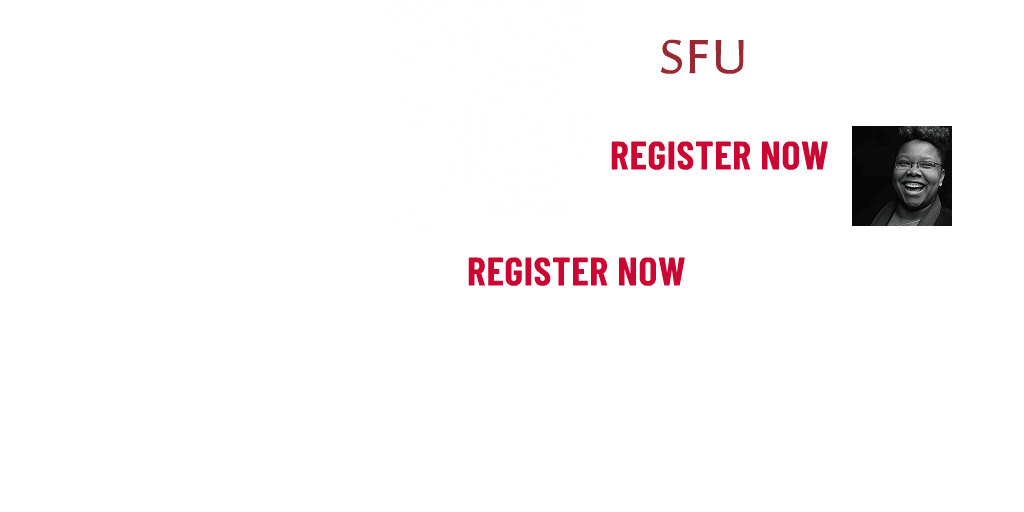
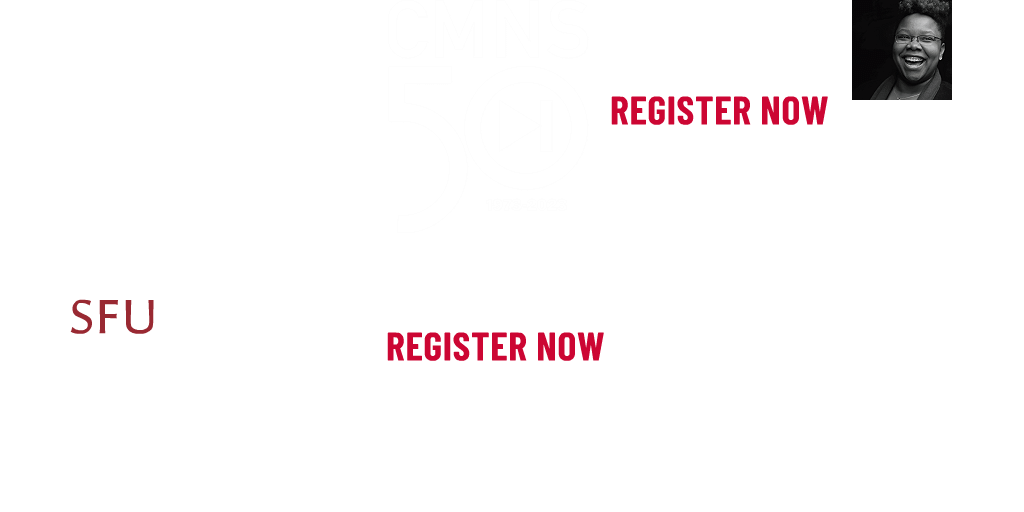
Add files via upload

diff --git a/cmns50th_300x250/index.js b/cmns50th_300x250/index.js
@@ -3,7 +3,7 @@
 var p; // shortcut to reference prototypes
 var lib={};var ss={};var img={};
 lib.ssMetadata = [
-		{name:"index_atlas_1", frames: [[0,235,445,80],[590,82,381,42],[590,0,364,80],[0,0,386,180],[590,126,260,56],[590,184,260,56],[447,242,260,56],[852,126,100,100],[388,0,200,233]]}
+		{name:"index_atlas_1", frames: [[388,235,445,80],[590,0,221,79],[0,260,364,80],[0,0,386,258],[590,81,260,56],[590,139,260,56],[366,317,260,56],[852,0,100,100],[388,0,200,233]]}
 ];
 
 
@@ -106,14 +106,14 @@ if (reversed == null) { reversed = false; }
 	this.instance.setTransform(0,22.7,0.5,0.5);
 
 	this.instance_1 = new lib.CachedBmp_6();
-	this.instance_1.setTransform(0,0,0.5,0.5);
+	this.instance_1.setTransform(0,-16,0.5,0.5);
 
 	this.timeline.addTween(cjs.Tween.get({}).to({state:[{t:this.instance_1},{t:this.instance}]}).wait(1));
 
 	this._renderFirstFrame();
 
 }).prototype = p = new cjs.MovieClip();
-p.nominalBounds = new cjs.Rectangle(0,0,222.5,62.7);
+p.nominalBounds = new cjs.Rectangle(0,-16,222.5,78.7);
 
 
 (lib.g_SpeakerPic = function(mode,startPosition,loop,reversed) {
@@ -186,14 +186,14 @@ if (reversed == null) { reversed = false; }
 
 	// Layer_1
 	this.instance = new lib.CMNS50();
-	this.instance.setTransform(0,0,0.5,0.5);
+	this.instance.setTransform(0,0,0.4,0.4);
 
 	this.timeline.addTween(cjs.Tween.get(this.instance).wait(1));
 
 	this._renderFirstFrame();
 
 }).prototype = p = new cjs.MovieClip();
-p.nominalBounds = new cjs.Rectangle(0,0,100,116.5);
+p.nominalBounds = new cjs.Rectangle(0,0,80,93.2);
 
 
 (lib.g_contenttxt_1 = function(mode,startPosition,loop,reversed) {
@@ -216,7 +216,7 @@ if (reversed == null) { reversed = false; }
 	this._renderFirstFrame();
 
 }).prototype = p = new cjs.MovieClip();
-p.nominalBounds = new cjs.Rectangle(0,0,193,90);
+p.nominalBounds = new cjs.Rectangle(0,0,193,129);
 
 
 (lib.btn_CTA = function(mode,startPosition,loop,reversed) {
@@ -356,7 +356,7 @@ if (reversed == null) { reversed = false; }
 	this.shape_19.graphics.f("#A6192E").s().p("A3bTiMAAAgnDMAu3AAAMAAAAnDg");
 	this.shape_19.setTransform(150,125);
 
-	this.timeline.addTween(cjs.Tween.get({}).to({state:[]}).to({state:[{t:this.shape}]},308).to({state:[{t:this.shape_1}]},1).to({state:[{t:this.shape_2}]},1).to({state:[{t:this.shape_3}]},1).to({state:[{t:this.shape_4}]},1).to({state:[{t:this.shape_5}]},1).to({state:[{t:this.shape_6}]},1).to({state:[{t:this.shape_7}]},1).to({state:[{t:this.shape_8}]},1).to({state:[{t:this.shape_9}]},1).to({state:[{t:this.shape_10}]},1).to({state:[{t:this.shape_11}]},1).to({state:[{t:this.shape_12}]},1).to({state:[{t:this.shape_13}]},1).to({state:[{t:this.shape_14}]},1).to({state:[{t:this.shape_15}]},1).to({state:[{t:this.shape_16}]},1).to({state:[{t:this.shape_17}]},1).to({state:[{t:this.shape_18}]},1).to({state:[{t:this.shape_19}]},1).wait(2));
+	this.timeline.addTween(cjs.Tween.get({}).to({state:[]}).to({state:[{t:this.shape}]},322).to({state:[{t:this.shape_1}]},1).to({state:[{t:this.shape_2}]},1).to({state:[{t:this.shape_3}]},1).to({state:[{t:this.shape_4}]},1).to({state:[{t:this.shape_5}]},1).to({state:[{t:this.shape_6}]},1).to({state:[{t:this.shape_7}]},1).to({state:[{t:this.shape_8}]},1).to({state:[{t:this.shape_9}]},1).to({state:[{t:this.shape_10}]},1).to({state:[{t:this.shape_11}]},1).to({state:[{t:this.shape_12}]},1).to({state:[{t:this.shape_13}]},1).to({state:[{t:this.shape_14}]},1).to({state:[{t:this.shape_15}]},1).to({state:[{t:this.shape_16}]},1).to({state:[{t:this.shape_17}]},1).to({state:[{t:this.shape_18}]},1).to({state:[{t:this.shape_19}]},1).wait(2));
 
 	// Logo_SOC
 	this.instance = new lib.g_SFU_SOC_Logo("synched",0);
@@ -366,89 +366,87 @@ if (reversed == null) { reversed = false; }
 	this.instance.filters = [instanceFilter_1];
 	this.instance.cache(-2,-2,186,44);
 
-	this.timeline.addTween(cjs.Tween.get(this.instance).wait(1).to({_off:false},0).to({y:18.1},23,cjs.Ease.get(1)).to({_off:true},304).wait(1));
-	this.timeline.addTween(cjs.Tween.get(instanceFilter_1).wait(1).to(new cjs.ColorFilter(0,0,0,1,166,25,47,0), 0).to(new cjs.ColorFilter(1,1,1,1,0,0,0,0), 23,cjs.Ease.get(1)).wait(1));
+	this.timeline.addTween(cjs.Tween.get(this.instance).wait(1).to({_off:false},0).to({y:18.1},24,cjs.Ease.get(1)).to({_off:true},317).wait(1));
+	this.timeline.addTween(cjs.Tween.get(instanceFilter_1).wait(1).to(new cjs.ColorFilter(0,0,0,1,166,25,47,0), 0).to(new cjs.ColorFilter(1,1,1,1,0,0,0,0), 24,cjs.Ease.get(1)).wait(1));
 
 	// Logo_CMNS50
 	this.instance_1 = new lib.g_Logo_CMNS50("synched",0);
-	this.instance_1.setTransform(262.5,88.6,1,1,0,0,0,82,30);
+	this.instance_1.setTransform(289,82.1,1,1,0,0,0,82,30);
 	this.instance_1._off = true;
 	var instance_1Filter_2 = new cjs.ColorFilter(1,1,1,1,0,0,0,0);
 	this.instance_1.filters = [instance_1Filter_2];
-	this.instance_1.cache(-2,-2,104,121);
+	this.instance_1.cache(-2,-2,84,97);
 
-	this.timeline.addTween(cjs.Tween.get(this.instance_1).wait(39).to({_off:false},0).to({startPosition:0},20,cjs.Ease.get(1)).wait(71).to({startPosition:0},0).to({startPosition:0},21,cjs.Ease.get(1)).to({_off:true},1).wait(177));
-	this.timeline.addTween(cjs.Tween.get(instance_1Filter_2).wait(39).to(new cjs.ColorFilter(0,0,0,1,166,25,47,0), 0).to(new cjs.ColorFilter(1,1,1,1,0,0,0,0), 20,cjs.Ease.get(1)).wait(71).to(new cjs.ColorFilter(0,0,0,1,166,25,47,0), 21,cjs.Ease.get(1)).wait(177));
+	this.timeline.addTween(cjs.Tween.get(this.instance_1).wait(38).to({_off:false},0).to({startPosition:0},18,cjs.Ease.get(1)).wait(89).to({startPosition:0},0).to({startPosition:0},21,cjs.Ease.get(1)).to({_off:true},1).wait(176));
+	this.timeline.addTween(cjs.Tween.get(instance_1Filter_2).wait(38).to(new cjs.ColorFilter(0,0,0,1,166,25,47,0), 0).to(new cjs.ColorFilter(1,1,1,1,0,0,0,0), 18,cjs.Ease.get(1)).wait(89).to(new cjs.ColorFilter(0,0,0,1,166,25,47,0), 21,cjs.Ease.get(1)).wait(176));
 
 	// Mask (mask)
 	var mask = new cjs.Shape();
 	mask._off = true;
-	var mask_graphics_16 = new cjs.Graphics().p("AgYTiMAAAgnDIAxAAMAAAAnDg");
-	var mask_graphics_17 = new cjs.Graphics().p("Aj7zhIH3CeMgFEAijIizCCg");
-	var mask_graphics_18 = new cjs.Graphics().p("AnWzhIOtE2Ip+eOIkvD/g");
-	var mask_graphics_19 = new cjs.Graphics().p("AqlzhIVMHHIupaFImjF3g");
-	var mask_graphics_20 = new cjs.Graphics().p("AtszhIbZJRIzFWJIoUHpg");
-	var mask_graphics_21 = new cjs.Graphics().p("AwpzhMAhTALVI3USZIp/JVg");
-	var mask_graphics_22 = new cjs.Graphics().p("AzczhMAm5ANSI7VO1IrkK8g");
-	var mask_graphics_23 = new cjs.Graphics().p("AzTzhMAmnAMbI5OR7ItZItg");
-	var mask_graphics_24 = new cjs.Graphics().p("AzKzhMAmVALlI3MU8IvJGig");
-	var mask_graphics_25 = new cjs.Graphics().p("AzBzhMAmDAKwI1PX3Iw0Ecg");
-	var mask_graphics_26 = new cjs.Graphics().p("Ay4zhMAlxAJ+IzVapIycCcg");
-	var mask_graphics_27 = new cjs.Graphics().p("AyxzhMAliAJOIxhdWI0BAfg");
-	var mask_graphics_28 = new cjs.Graphics().p("AymTiMAAAgnDMAlNAIOIuGe1g");
-	var mask_graphics_29 = new cjs.Graphics().p("AycTTMAAAgnEMAk5AHTMgK3AgPg");
-	var mask_graphics_30 = new cjs.Graphics().p("AySTEMAAAgnDMAklAGaMgHzAhlg");
-	var mask_graphics_31 = new cjs.Graphics().p("AyJS3MAAAgnDMAkTAFlMgE9Ai0g");
-	var mask_graphics_32 = new cjs.Graphics().p("AyBSrMAAAgnEMAkDAE0MgCUAj+g");
+	var mask_graphics_17 = new cjs.Graphics().p("AgYTiMAAAgnDIAxAAMAAAAnDg");
+	var mask_graphics_18 = new cjs.Graphics().p("Aj7zhIH3CeMgFEAijIizCCg");
+	var mask_graphics_19 = new cjs.Graphics().p("AnWzhIOtE2Ip+eOIkvD/g");
+	var mask_graphics_20 = new cjs.Graphics().p("AqlzhIVMHHIupaFImjF3g");
+	var mask_graphics_21 = new cjs.Graphics().p("AtszhIbZJRIzFWJIoUHpg");
+	var mask_graphics_22 = new cjs.Graphics().p("AwpzhMAhTALVI3USZIp/JVg");
+	var mask_graphics_23 = new cjs.Graphics().p("AzczhMAm5ANSI7VO1IrkK8g");
+	var mask_graphics_24 = new cjs.Graphics().p("AzTzhMAmnAMbI5OR7ItZItg");
+	var mask_graphics_25 = new cjs.Graphics().p("AzKzhMAmVALlI3MU8IvJGig");
+	var mask_graphics_26 = new cjs.Graphics().p("AzBzhMAmDAKwI1PX3Iw0Ecg");
+	var mask_graphics_27 = new cjs.Graphics().p("Ay4zhMAlxAJ+IzVapIycCcg");
+	var mask_graphics_28 = new cjs.Graphics().p("AyxzhMAliAJOIxhdWI0BAfg");
+	var mask_graphics_29 = new cjs.Graphics().p("AykTfMAAAgnEMAlJAIDItcfIg");
+	var mask_graphics_30 = new cjs.Graphics().p("AyYTNMAAAgnDMAkxAG7MgJnAgyg");
+	var mask_graphics_31 = new cjs.Graphics().p("AyNS8MAAAgnDMAkbAF6MgGFAiVg");
+	var mask_graphics_32 = new cjs.Graphics().p("AyDStMAAAgnDMAkGAE+MgC0Ajvg");
 	var mask_graphics_33 = new cjs.Graphics().p("Ax+SfMAAAgnDMAjzAEHMAAKAlCg");
-	var mask_graphics_34 = new cjs.Graphics().p("AzbSxMAAAgnDMAmvADBMAAIAlkg");
-	var mask_graphics_35 = new cjs.Graphics().p("A0pTAMAAAgnDMApOACGMAAFAmBg");
-	var mask_graphics_36 = new cjs.Graphics().p("A1pTMMAAAgnDMArQABWMAADAmZg");
-	var mask_graphics_37 = new cjs.Graphics().p("A2bTWMAAAgnDMAs1AAwMAACAmrg");
-	var mask_graphics_38 = new cjs.Graphics().p("A2/TdMAAAgnEMAt9AAWMAABAm5g");
-	var mask_graphics_39 = new cjs.Graphics().p("A3UThMAAAgnDMAupAAFMAAAAnAg");
-	var mask_graphics_40 = new cjs.Graphics().p("A3bTiMAAAgnDMAu3AAAMAAAAnDg");
-	var mask_graphics_130 = new cjs.Graphics().p("A3CNrIgywIIAyr/IW7gyIX8AyIAAJzIAATGI3aAyg");
-	var mask_graphics_131 = new cjs.Graphics().p("A1tNrIhTvhIB1sQIVRhIIW2AzIAFJzIgFTFI2TAyg");
-	var mask_graphics_132 = new cjs.Graphics().p("A0aNrIhzu6IC3sgITqhfIVvA0IALJyIgLTGI1MAxg");
-	var mask_graphics_133 = new cjs.Graphics().p("AzHNrIiTuUID5sxISDh0IUpA0IAQJzIgQTFI0GAxg");
-	var mask_graphics_134 = new cjs.Graphics().p("Ax1NrIiztuIE5tBIQfiKITkA0IAVJzIgVTGIzBAwg");
-	var mask_graphics_135 = new cjs.Graphics().p("AwkNrIjTtJIF6tQIO6igISgA0IAbJzIgbTHIx9Avg");
-	var mask_graphics_136 = new cjs.Graphics().p("AvUNrIjyslIG5tfINXi1IRdA1IAgJzIggTGIw6Avg");
-	var mask_graphics_137 = new cjs.Graphics().p("AuGNrIkPsAIH2tvIL2jKIQbA2IAlJyIglTGIv4Avg");
-	var mask_graphics_138 = new cjs.Graphics().p("As4NrIkurcII1t+IKVjfIPZA2IAqJzIgqTGIu2Aug");
-	var mask_graphics_139 = new cjs.Graphics().p("ArdNnIlvofII/szIKUoTIOYA3IAuJzIgkUiItqAxg");
-	var mask_graphics_140 = new cjs.Graphics().p("AqDNiImvliITa4tINYA3IA0JzIggV9IseA0g");
-	var mask_graphics_141 = new cjs.Graphics().p("AoqNeInviqIJTqjIKQxsIMYA3IA4JzIgZXXIrVA2g");
-	var mask_graphics_142 = new cjs.Graphics().p("AlbOXIomiSIGLrFIHKtrIK1jnIDyGyIAHSyIn4HBg");
-	var mask_graphics_143 = new cjs.Graphics().p("Ar2NtIDErlIEFpuIJToCIGqD1IAnOQIkdNGIp1AGg");
-	var mask_graphics_144 = new cjs.Graphics().p("ApuOXIABsGIBElzIHzsZIJfA5IBGJzIhGTGIoICFg");
-	var mask_graphics_145 = new cjs.Graphics().p("ApuOXIABsGIBElzIHzsZIJfA5IBGJzIhGTGIoICFg");
-	var mask_graphics_146 = new cjs.Graphics().p("ApuOXIABsGIBElzIHzsZIJfA5IBGJzIhGTGIoICFg");
-	var mask_graphics_147 = new cjs.Graphics().p("ApuOXIABsGIBElzIHzsZIJfA5IBGJzIhGTGIoICFg");
-	var mask_graphics_148 = new cjs.Graphics().p("ApuOXIABsGIBElzIHzsZIJfA5IBGJzIhGTGIoICFg");
-	var mask_graphics_149 = new cjs.Graphics().p("ApuOXIABsGIBElzIHzsZIJfA5IBGJzIhGTGIoICFg");
-	var mask_graphics_150 = new cjs.Graphics().p("ApuOXIABsGIBElzIHzsZIJfA5IBGJzIhGTGIoICFg");
-	var mask_graphics_151 = new cjs.Graphics().p("ApuOXIABsGIBElzIHzsZIJfA5IBGJzIhGTGIoICFg");
+	var mask_graphics_34 = new cjs.Graphics().p("AzpS0MAAAgnEMAnMAC3MAAHAlpg");
+	var mask_graphics_35 = new cjs.Graphics().p("A1ATEMAAAgnDMAp9AB1MAAEAmKg");
+	var mask_graphics_36 = new cjs.Graphics().p("A2ETRMAAAgnDMAsGABCMAADAmjg");
+	var mask_graphics_37 = new cjs.Graphics().p("A20TbMAAAgnEMAtoAAdMAABAm1g");
+	var mask_graphics_38 = new cjs.Graphics().p("A3RTgMAAAgnDMAujAAIMAAAAm/g");
+	var mask_graphics_39 = new cjs.Graphics().p("A3bTiMAAAgnDMAu3AAAMAAAAnDg");
+	var mask_graphics_145 = new cjs.Graphics().p("A3CNrIgywIIAyr/IW7gyIX8AyIAAJzIAATGI3aAyg");
+	var mask_graphics_146 = new cjs.Graphics().p("A1tNrIhTvhIB1sQIVRhIIW2AzIAFJzIgFTFI2TAyg");
+	var mask_graphics_147 = new cjs.Graphics().p("A0aNrIhzu6IC3sgITqhfIVvA0IALJyIgLTGI1MAxg");
+	var mask_graphics_148 = new cjs.Graphics().p("AzHNrIiTuUID5sxISDh0IUpA0IAQJzIgQTFI0GAxg");
+	var mask_graphics_149 = new cjs.Graphics().p("Ax1NrIiztuIE5tBIQfiKITkA0IAVJzIgVTGIzBAwg");
+	var mask_graphics_150 = new cjs.Graphics().p("AwkNrIjTtJIF6tQIO6igISgA0IAbJzIgbTHIx9Avg");
+	var mask_graphics_151 = new cjs.Graphics().p("AvUNrIjyslIG5tfINXi1IRdA1IAgJzIggTGIw6Avg");
+	var mask_graphics_152 = new cjs.Graphics().p("AuGNrIkPsAIH2tvIL2jKIQbA2IAlJyIglTGIv4Avg");
+	var mask_graphics_153 = new cjs.Graphics().p("As4NrIkurcII1t+IKVjfIPZA2IAqJzIgqTGIu2Aug");
+	var mask_graphics_154 = new cjs.Graphics().p("ArdNnIlvofII/szIKUoTIOYA3IAuJzIgkUiItqAxg");
+	var mask_graphics_155 = new cjs.Graphics().p("AqDNiImvliITa4tINYA3IA0JzIggV9IseA0g");
+	var mask_graphics_156 = new cjs.Graphics().p("AoqNeInviqIJTqjIKQxsIMYA3IA4JzIgZXXIrVA2g");
+	var mask_graphics_157 = new cjs.Graphics().p("AlbOXIomiSIGLrFIHKtrIK1jnIDyGyIAHSyIn4HBg");
+	var mask_graphics_158 = new cjs.Graphics().p("Ar2NtIDErlIEFpuIJToCIGqD1IAnOQIkdNGIp1AGg");
+	var mask_graphics_159 = new cjs.Graphics().p("ApuOXIABsGIBElzIHzsZIJfA5IBGJzIhGTGIoICFg");
+	var mask_graphics_160 = new cjs.Graphics().p("ApuOXIABsGIBElzIHzsZIJfA5IBGJzIhGTGIoICFg");
+	var mask_graphics_161 = new cjs.Graphics().p("ApuOXIABsGIBElzIHzsZIJfA5IBGJzIhGTGIoICFg");
+	var mask_graphics_162 = new cjs.Graphics().p("ApuOXIABsGIBElzIHzsZIJfA5IBGJzIhGTGIoICFg");
+	var mask_graphics_163 = new cjs.Graphics().p("ApuOXIABsGIBElzIHzsZIJfA5IBGJzIhGTGIoICFg");
+	var mask_graphics_164 = new cjs.Graphics().p("ApuOXIABsGIBElzIHzsZIJfA5IBGJzIhGTGIoICFg");
+	var mask_graphics_165 = new cjs.Graphics().p("ApuOXIABsGIBElzIHzsZIJfA5IBGJzIhGTGIoICFg");
+	var mask_graphics_166 = new cjs.Graphics().p("ApuOXIABsGIBElzIHzsZIJfA5IBGJzIhGTGIoICFg");
 
-	this.timeline.addTween(cjs.Tween.get(mask).to({graphics:null,x:0,y:0}).wait(16).to({graphics:mask_graphics_16,x:-2.5,y:125}).wait(1).to({graphics:mask_graphics_17,x:20.65,y:125}).wait(1).to({graphics:mask_graphics_18,x:42.85,y:125}).wait(1).to({graphics:mask_graphics_19,x:64.05,y:125}).wait(1).to({graphics:mask_graphics_20,x:84.275,y:125}).wait(1).to({graphics:mask_graphics_21,x:103.5,y:125}).wait(1).to({graphics:mask_graphics_22,x:121.725,y:125}).wait(1).to({graphics:mask_graphics_23,x:120.975,y:125}).wait(1).to({graphics:mask_graphics_24,x:120.225,y:125}).wait(1).to({graphics:mask_graphics_25,x:119.55,y:125}).wait(1).to({graphics:mask_graphics_26,x:118.85,y:125}).wait(1).to({graphics:mask_graphics_27,x:118.2,y:125}).wait(1).to({graphics:mask_graphics_28,x:117.325,y:125.025}).wait(1).to({graphics:mask_graphics_29,x:116.525,y:126.55}).wait(1).to({graphics:mask_graphics_30,x:115.775,y:127.975}).wait(1).to({graphics:mask_graphics_31,x:115.05,y:129.3}).wait(1).to({graphics:mask_graphics_32,x:114.4,y:130.55}).wait(1).to({graphics:mask_graphics_33,x:114.275,y:131.7}).wait(1).to({graphics:mask_graphics_34,x:123.775,y:129.925}).wait(1).to({graphics:mask_graphics_35,x:131.775,y:128.425}).wait(1).to({graphics:mask_graphics_36,x:138.325,y:127.2}).wait(1).to({graphics:mask_graphics_37,x:143.45,y:126.225}).wait(1).to({graphics:mask_graphics_38,x:147.1,y:125.55}).wait(1).to({graphics:mask_graphics_39,x:149.275,y:125.125}).wait(1).to({graphics:mask_graphics_40,x:150,y:125}).wait(90).to({graphics:mask_graphics_130,x:147.5,y:152.5}).wait(1).to({graphics:mask_graphics_131,x:155.525,y:152.65}).wait(1).to({graphics:mask_graphics_132,x:163.475,y:152.8}).wait(1).to({graphics:mask_graphics_133,x:171.325,y:153}).wait(1).to({graphics:mask_graphics_134,x:179.1,y:153.15}).wait(1).to({graphics:mask_graphics_135,x:186.775,y:153.3}).wait(1).to({graphics:mask_graphics_136,x:194.325,y:153.45}).wait(1).to({graphics:mask_graphics_137,x:201.85,y:153.6}).wait(1).to({graphics:mask_graphics_138,x:209.225,y:153.75}).wait(1).to({graphics:mask_graphics_139,x:214.4,y:158.675}).wait(1).to({graphics:mask_graphics_140,x:219.5,y:163.55}).wait(1).to({graphics:mask_graphics_141,x:224.525,y:168.35}).wait(1).to({graphics:mask_graphics_142,x:240.6,y:164.825}).wait(1).to({graphics:mask_graphics_143,x:257.775,y:158.85}).wait(1).to({graphics:mask_graphics_144,x:274.675,y:159.075}).wait(1).to({graphics:mask_graphics_145,x:287.625,y:159.075}).wait(1).to({graphics:mask_graphics_146,x:300.525,y:159.075}).wait(1).to({graphics:mask_graphics_147,x:313.375,y:159.075}).wait(1).to({graphics:mask_graphics_148,x:326.275,y:159.075}).wait(1).to({graphics:mask_graphics_149,x:339.075,y:159.075}).wait(1).to({graphics:mask_graphics_150,x:351.875,y:159.075}).wait(1).to({graphics:mask_graphics_151,x:364.675,y:159.075}).wait(178));
+	this.timeline.addTween(cjs.Tween.get(mask).to({graphics:null,x:0,y:0}).wait(17).to({graphics:mask_graphics_17,x:-2.5,y:125}).wait(1).to({graphics:mask_graphics_18,x:20.65,y:125}).wait(1).to({graphics:mask_graphics_19,x:42.85,y:125}).wait(1).to({graphics:mask_graphics_20,x:64.05,y:125}).wait(1).to({graphics:mask_graphics_21,x:84.275,y:125}).wait(1).to({graphics:mask_graphics_22,x:103.5,y:125}).wait(1).to({graphics:mask_graphics_23,x:121.725,y:125}).wait(1).to({graphics:mask_graphics_24,x:120.975,y:125}).wait(1).to({graphics:mask_graphics_25,x:120.225,y:125}).wait(1).to({graphics:mask_graphics_26,x:119.55,y:125}).wait(1).to({graphics:mask_graphics_27,x:118.85,y:125}).wait(1).to({graphics:mask_graphics_28,x:118.2,y:125}).wait(1).to({graphics:mask_graphics_29,x:117.175,y:125.35}).wait(1).to({graphics:mask_graphics_30,x:116.225,y:127.125}).wait(1).to({graphics:mask_graphics_31,x:115.325,y:128.775}).wait(1).to({graphics:mask_graphics_32,x:114.5,y:130.3}).wait(1).to({graphics:mask_graphics_33,x:114.275,y:131.7}).wait(1).to({graphics:mask_graphics_34,x:125.175,y:129.65}).wait(1).to({graphics:mask_graphics_35,x:134.1,y:127.975}).wait(1).to({graphics:mask_graphics_36,x:141.075,y:126.675}).wait(1).to({graphics:mask_graphics_37,x:146.025,y:125.75}).wait(1).to({graphics:mask_graphics_38,x:149.025,y:125.175}).wait(1).to({graphics:mask_graphics_39,x:150,y:125}).wait(106).to({graphics:mask_graphics_145,x:147.5,y:152.5}).wait(1).to({graphics:mask_graphics_146,x:155.525,y:152.65}).wait(1).to({graphics:mask_graphics_147,x:163.475,y:152.8}).wait(1).to({graphics:mask_graphics_148,x:171.325,y:153}).wait(1).to({graphics:mask_graphics_149,x:179.1,y:153.15}).wait(1).to({graphics:mask_graphics_150,x:186.775,y:153.3}).wait(1).to({graphics:mask_graphics_151,x:194.325,y:153.45}).wait(1).to({graphics:mask_graphics_152,x:201.85,y:153.6}).wait(1).to({graphics:mask_graphics_153,x:209.225,y:153.75}).wait(1).to({graphics:mask_graphics_154,x:214.4,y:158.675}).wait(1).to({graphics:mask_graphics_155,x:219.5,y:163.55}).wait(1).to({graphics:mask_graphics_156,x:224.525,y:168.35}).wait(1).to({graphics:mask_graphics_157,x:240.6,y:164.825}).wait(1).to({graphics:mask_graphics_158,x:257.775,y:158.85}).wait(1).to({graphics:mask_graphics_159,x:274.675,y:159.075}).wait(1).to({graphics:mask_graphics_160,x:287.625,y:159.075}).wait(1).to({graphics:mask_graphics_161,x:300.525,y:159.075}).wait(1).to({graphics:mask_graphics_162,x:313.375,y:159.075}).wait(1).to({graphics:mask_graphics_163,x:326.275,y:159.075}).wait(1).to({graphics:mask_graphics_164,x:339.075,y:159.075}).wait(1).to({graphics:mask_graphics_165,x:351.875,y:159.075}).wait(1).to({graphics:mask_graphics_166,x:364.675,y:159.075}).wait(177));
 
 	// Pattern_2
 	this.shape_20 = new cjs.Shape();
[1 lines of base64/hex data omitted]
-	this.shape_20.setTransform(150.3,163.2);
[1 lines of base64/hex data omitted]
+	this.shape_20.setTransform(159.3,138.725);
 
 	this.shape_21 = new cjs.Shape();
[1 lines of base64/hex data omitted]
-	this.shape_21.setTransform(150.3,173.725);
[1 lines of base64/hex data omitted]
+	this.shape_21.setTransform(159.3,128.25);
 
 	this.shape_22 = new cjs.Shape();
[1 lines of base64/hex data omitted]
-	this.shape_22.setTransform(150.3,152.7);
[1 lines of base64/hex data omitted]
+	this.shape_22.setTransform(159.3,128.2);
 
 	this.shape_23 = new cjs.Shape();
[1 lines of base64/hex data omitted]
-	this.shape_23.setTransform(150.3,163.25);
[1 lines of base64/hex data omitted]
+	this.shape_23.setTransform(159.3,117.7);
 
 	var maskedShapeInstanceList = [this.shape_20,this.shape_21,this.shape_22,this.shape_23];
 
@@ -456,53 +454,53 @@ if (reversed == null) { reversed = false; }
 		maskedShapeInstanceList[shapedInstanceItr].mask = mask;
 	}
 
-	this.timeline.addTween(cjs.Tween.get({}).to({state:[]}).to({state:[{t:this.shape_23},{t:this.shape_22},{t:this.shape_21},{t:this.shape_20}]},16).to({state:[]},136).wait(177));
+	this.timeline.addTween(cjs.Tween.get({}).to({state:[]}).to({state:[{t:this.shape_23},{t:this.shape_22},{t:this.shape_21},{t:this.shape_20}]},17).to({state:[]},150).wait(176));
+
+	// SpeakerPic
+	this.instance_2 = new lib.g_SpeakerPic("synched",0);
+	this.instance_2.setTransform(28.9,101.2,0.701,0.7007,0,0,0,49.9,50);
+	this.instance_2._off = true;
+	var instance_2Filter_3 = new cjs.ColorFilter(1,1,1,1,0,0,0,0);
+	this.instance_2.filters = [instance_2Filter_3];
+	this.instance_2.cache(-2,-2,104,104);
+
+	this.timeline.addTween(cjs.Tween.get(this.instance_2).wait(170).to({_off:false},0).to({x:48.9},30,cjs.Ease.get(1)).to({_off:true},142).wait(1));
+	this.timeline.addTween(cjs.Tween.get(instance_2Filter_3).wait(170).to(new cjs.ColorFilter(0,0,0,1,166,25,47,0), 0).to(new cjs.ColorFilter(1,1,1,1,0,0,0,0), 30,cjs.Ease.get(1)).wait(1));
 
 	// Mask (mask)
 	var mask_1 = new cjs.Shape();
 	mask_1._off = true;
-	var mask_1_graphics_155 = new cjs.Graphics().p("A3bTiMAAAgnDMAu3AAAMAAAAnDg");
+	var mask_1_graphics_56 = new cjs.Graphics().p("A3bTiMAAAgnDMAu3AAAMAAAAnDg");
 
-	this.timeline.addTween(cjs.Tween.get(mask_1).to({graphics:null,x:0,y:0}).wait(155).to({graphics:mask_1_graphics_155,x:150,y:125}).wait(174));
+	this.timeline.addTween(cjs.Tween.get(mask_1).to({graphics:null,x:0,y:0}).wait(56).to({graphics:mask_1_graphics_56,x:150,y:125}).wait(287));
 
 	// Text_1
-	this.instance_2 = new lib.g_title_1("synched",0);
-	this.instance_2.setTransform(-112.95,83.4,1,1,0,0,0,111.3,31.4);
-	this.instance_2._off = true;
-	var instance_2Filter_3 = new cjs.ColorFilter(1,1,1,1,0,0,0,0);
-	this.instance_2.filters = [instance_2Filter_3];
-	this.instance_2.cache(-2,-2,227,67);
+	this.instance_3 = new lib.g_title_1("synched",0);
+	this.instance_3.setTransform(-112.95,215.9,1,1,0,0,0,111.3,31.4);
+	this.instance_3._off = true;
+	var instance_3Filter_4 = new cjs.ColorFilter(1,1,1,1,0,0,0,0);
+	this.instance_3.filters = [instance_3Filter_4];
+	this.instance_3.cache(-2,-18,227,83);
 
-	var maskedShapeInstanceList = [this.instance_2];
+	var maskedShapeInstanceList = [this.instance_3];
 
 	for(var shapedInstanceItr = 0; shapedInstanceItr < maskedShapeInstanceList.length; shapedInstanceItr++) {
 		maskedShapeInstanceList[shapedInstanceItr].mask = mask_1;
 	}
 
-	this.timeline.addTween(cjs.Tween.get(this.instance_2).wait(155).to({_off:false},0).to({x:121.3},19,cjs.Ease.get(1)).to({_off:true},154).wait(1));
-	this.timeline.addTween(cjs.Tween.get(instance_2Filter_3).wait(155).to(new cjs.ColorFilter(0,0,0,1,166,25,47,0), 0).to(new cjs.ColorFilter(1,1,1,1,0,0,0,0), 19,cjs.Ease.get(1)).wait(1));
-
-	// SpeakerPic
-	this.instance_3 = new lib.g_SpeakerPic("synched",0);
-	this.instance_3.setTransform(33.9,156.2,0.701,0.7007,0,0,0,49.9,50);
-	this.instance_3._off = true;
-	var instance_3Filter_4 = new cjs.ColorFilter(1,1,1,1,0,0,0,0);
-	this.instance_3.filters = [instance_3Filter_4];
-	this.instance_3.cache(-2,-2,104,104);
-
-	this.timeline.addTween(cjs.Tween.get(this.instance_3).wait(172).to({_off:false},0).to({x:48.9},18,cjs.Ease.get(1)).to({_off:true},138).wait(1));
-	this.timeline.addTween(cjs.Tween.get(instance_3Filter_4).wait(172).to(new cjs.ColorFilter(0,0,0,1,166,25,47,0), 0).to(new cjs.ColorFilter(1,1,1,1,0,0,0,0), 18,cjs.Ease.get(1)).wait(1));
+	this.timeline.addTween(cjs.Tween.get(this.instance_3).wait(56).to({_off:false},0).to({x:121.3},19,cjs.Ease.get(1)).wait(70).to({startPosition:0},0).to({startPosition:0},20).to({_off:true},2).wait(176));
+	this.timeline.addTween(cjs.Tween.get(instance_3Filter_4).wait(56).to(new cjs.ColorFilter(0,0,0,1,166,25,47,0), 0).to(new cjs.ColorFilter(1,1,1,1,0,0,0,0), 19,cjs.Ease.get(1)).wait(70).to(new cjs.ColorFilter(0,0,0,1,166,25,47,0), 20).wait(176));
 
 	// Mask (mask)
 	var mask_2 = new cjs.Shape();
 	mask_2._off = true;
-	var mask_2_graphics_155 = new cjs.Graphics().p("AwWJOIAAybMAgtAAAIAASbg");
+	var mask_2_graphics_187 = new cjs.Graphics().p("AwWPAIAA9/MAgtAAAIAAd/g");
 
-	this.timeline.addTween(cjs.Tween.get(mask_2).to({graphics:null,x:0,y:0}).wait(155).to({graphics:mask_2_graphics_155,x:195.275,y:160.05}).wait(174));
+	this.timeline.addTween(cjs.Tween.get(mask_2).to({graphics:null,x:0,y:0}).wait(187).to({graphics:mask_2_graphics_187,x:195.275,y:145.05}).wait(156));
 
 	// Text_2
 	this.instance_4 = new lib.g_contenttxt_1("synched",0);
-	this.instance_4.setTransform(-12.6,159.7,1,1,0,0,0,96.5,45);
+	this.instance_4.setTransform(-12.6,106.15,1,1,0,0,0,96.5,45);
 	this.instance_4._off = true;
 
 	var maskedShapeInstanceList = [this.instance_4];
@@ -511,7 +509,7 @@ if (reversed == null) { reversed = false; }
 		maskedShapeInstanceList[shapedInstanceItr].mask = mask_2;
 	}
 
-	this.timeline.addTween(cjs.Tween.get(this.instance_4).wait(189).to({_off:false},0).to({x:193,y:161.15},18,cjs.Ease.get(1)).to({_off:true},121).wait(1));
+	this.timeline.addTween(cjs.Tween.get(this.instance_4).wait(187).to({_off:false},0).to({x:193},26,cjs.Ease.get(1)).to({_off:true},129).wait(1));
 
 	// btn_CTA
 	this.instance_5 = new lib.btn_CTA();
@@ -522,33 +520,35 @@ if (reversed == null) { reversed = false; }
 	this.instance_5.cache(-3,-3,136,38);
 	new cjs.ButtonHelper(this.instance_5, 0, 1, 2, false, new lib.btn_CTA(), 3);
 
-	this.timeline.addTween(cjs.Tween.get(this.instance_5).wait(212).to({_off:false},0).to({x:165},21,cjs.Ease.get(1)).to({_off:true},95).wait(1));
-	this.timeline.addTween(cjs.Tween.get(instance_5Filter_5).wait(212).to(new cjs.ColorFilter(0,0,0,1,255,255,255,0), 0).to(new cjs.ColorFilter(1,1,1,1,0,0,0,0), 21,cjs.Ease.get(1)).wait(1));
+	this.timeline.addTween(cjs.Tween.get(this.instance_5).wait(210).to({_off:false},0).to({x:165},23,cjs.Ease.get(1)).to({_off:true},109).wait(1));
+	this.timeline.addTween(cjs.Tween.get(instance_5Filter_5).wait(210).to(new cjs.ColorFilter(0,0,0,1,255,255,255,0), 0).to(new cjs.ColorFilter(1,1,1,1,0,0,0,0), 23,cjs.Ease.get(1)).wait(1));
 
 	this.filterCacheList = [];
 	this.filterCacheList.push({instance: this.instance, startFrame:1, endFrame:1, x:-2, y:-2, w:186, h:44});
 	this.filterCacheList.push({instance: this.instance, startFrame:0, endFrame:0, x:-2, y:-2, w:186, h:44});
-	this.filterCacheList.push({instance: this.instance, startFrame:2, endFrame:24, x:-2, y:-2, w:186, h:44});
-	this.filterCacheList.push({instance: this.instance_1, startFrame:39, endFrame:39, x:-2, y:-2, w:104, h:121});
-	this.filterCacheList.push({instance: this.instance_1, startFrame:0, endFrame:0, x:-2, y:-2, w:104, h:121});
-	this.filterCacheList.push({instance: this.instance_1, startFrame:40, endFrame:59, x:-2, y:-2, w:104, h:121});
-	this.filterCacheList.push({instance: this.instance_1, startFrame:130, endFrame:130, x:-2, y:-2, w:104, h:121});
-	this.filterCacheList.push({instance: this.instance_1, startFrame:131, endFrame:151, x:-2, y:-2, w:104, h:121});
-	this.filterCacheList.push({instance: this.instance_2, startFrame:155, endFrame:155, x:-2, y:-2, w:227, h:67});
-	this.filterCacheList.push({instance: this.instance_2, startFrame:0, endFrame:0, x:-2, y:-2, w:227, h:67});
-	this.filterCacheList.push({instance: this.instance_2, startFrame:156, endFrame:174, x:-2, y:-2, w:227, h:67});
-	this.filterCacheList.push({instance: this.instance_3, startFrame:172, endFrame:172, x:-2, y:-2, w:104, h:104});
-	this.filterCacheList.push({instance: this.instance_3, startFrame:0, endFrame:0, x:-2, y:-2, w:104, h:104});
-	this.filterCacheList.push({instance: this.instance_3, startFrame:173, endFrame:190, x:-2, y:-2, w:104, h:104});
-	this.filterCacheList.push({instance: this.instance_5, startFrame:212, endFrame:212, x:-3, y:-3, w:136, h:38});
+	this.filterCacheList.push({instance: this.instance, startFrame:2, endFrame:25, x:-2, y:-2, w:186, h:44});
+	this.filterCacheList.push({instance: this.instance_1, startFrame:38, endFrame:38, x:-2, y:-2, w:84, h:97});
+	this.filterCacheList.push({instance: this.instance_1, startFrame:0, endFrame:0, x:-2, y:-2, w:84, h:97});
+	this.filterCacheList.push({instance: this.instance_1, startFrame:39, endFrame:56, x:-2, y:-2, w:84, h:97});
+	this.filterCacheList.push({instance: this.instance_1, startFrame:145, endFrame:145, x:-2, y:-2, w:84, h:97});
+	this.filterCacheList.push({instance: this.instance_1, startFrame:146, endFrame:166, x:-2, y:-2, w:84, h:97});
+	this.filterCacheList.push({instance: this.instance_2, startFrame:170, endFrame:170, x:-2, y:-2, w:104, h:104});
+	this.filterCacheList.push({instance: this.instance_2, startFrame:0, endFrame:0, x:-2, y:-2, w:104, h:104});
+	this.filterCacheList.push({instance: this.instance_2, startFrame:171, endFrame:200, x:-2, y:-2, w:104, h:104});
+	this.filterCacheList.push({instance: this.instance_3, startFrame:56, endFrame:56, x:-2, y:-18, w:227, h:83});
+	this.filterCacheList.push({instance: this.instance_3, startFrame:0, endFrame:0, x:-2, y:-18, w:227, h:83});
+	this.filterCacheList.push({instance: this.instance_3, startFrame:57, endFrame:75, x:-2, y:-18, w:227, h:83});
+	this.filterCacheList.push({instance: this.instance_3, startFrame:145, endFrame:145, x:-2, y:-18, w:227, h:83});
+	this.filterCacheList.push({instance: this.instance_3, startFrame:146, endFrame:165, x:-2, y:-18, w:227, h:83});
+	this.filterCacheList.push({instance: this.instance_5, startFrame:210, endFrame:210, x:-3, y:-3, w:136, h:38});
 	this.filterCacheList.push({instance: this.instance_5, startFrame:0, endFrame:0, x:-3, y:-3, w:136, h:38});
-	this.filterCacheList.push({instance: this.instance_5, startFrame:213, endFrame:233, x:-3, y:-3, w:136, h:38});
-	this.filterCacheList.push({instance: this.instance_5, startFrame:234, endFrame:328, x:-3, y:-3, w:136, h:38});
-	this.filterCacheList.push({instance: this.instance_5, startFrame:328, endFrame:329, x:-3, y:-3, w:136, h:38});
+	this.filterCacheList.push({instance: this.instance_5, startFrame:211, endFrame:233, x:-3, y:-3, w:136, h:38});
+	this.filterCacheList.push({instance: this.instance_5, startFrame:234, endFrame:342, x:-3, y:-3, w:136, h:38});
+	this.filterCacheList.push({instance: this.instance_5, startFrame:342, endFrame:343, x:-3, y:-3, w:136, h:38});
 	this._renderFirstFrame();
 
 }).prototype = p = new lib.AnMovieClip();
-p.nominalBounds = new cjs.Rectangle(0,0,306,250);
+p.nominalBounds = new cjs.Rectangle(0,0,325.6,250);
 // library properties:
 lib.properties = {
 	id: 'C38F8E925B074A239B4A15BB5DD6BAC8',
